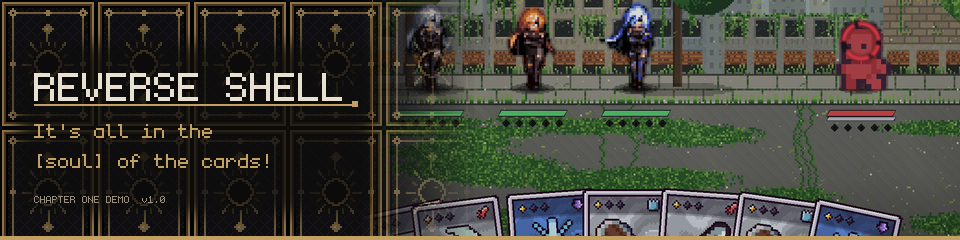
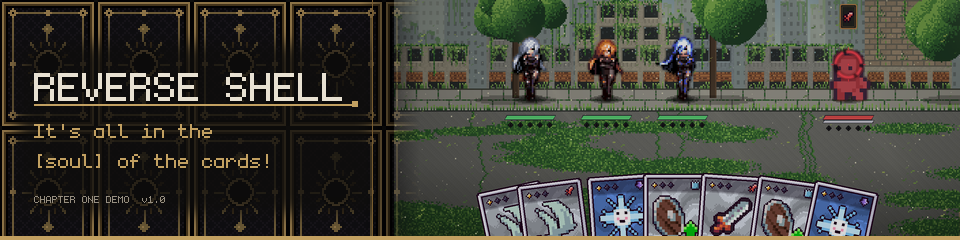
new art hopefully

diff --git a/reverse-shell/Tools/ItchArt/itch_art.py b/reverse-shell/Tools/ItchArt/itch_art.py
@@ -121,14 +121,21 @@ def banner():
     W, H = 960, 240
     # The battle with the merged card on the right: the party, the enemies and the top of the hand (the merged card).
     out = Image.new('RGB', (W, H), INK)
-    battle = shot(BACKGROUND).crop((250, 400, 1550, 920)).resize((600, 240), Image.LANCZOS)
+    # The crop is placed so the units (source x ~340-1400, centre ~870) sit centred in the clear part of the banner
+    # (x 420-960, right of the fade).
+    scale = 0.34
+    units_cx, clear_cx = 870, 690
+    left = int(units_cx - (clear_cx - (W - 600)) / scale)
+    top = 300
+    box = (left, top, left + int(600 / scale), top + int(H / scale))
+    battle = shot(BACKGROUND).crop(box).resize((600, 240), Image.LANCZOS)
     out.paste(darken(battle, 0.85), (W - 600, 0))
     # The title panel on the left: the card back, tiled, fading into the battle.
     panel = card_back_tile(W, H, 2, 0.55)
     fade = Image.new('L', (W, H), 0)
     d = ImageDraw.Draw(fade)
     for x in range(W):
-        a = 255 if x < 360 else max(0, 255 - int((x - 360) / 120 * 255))
+        a = 255 if x < 360 else max(0, 255 - int((x - 360) / 60 * 255))
         d.line([(x, 0), (x, H)], fill=a)
     out = Image.composite(panel, out, fade)
     # A soft ink plate behind the words so they read over the pattern.
